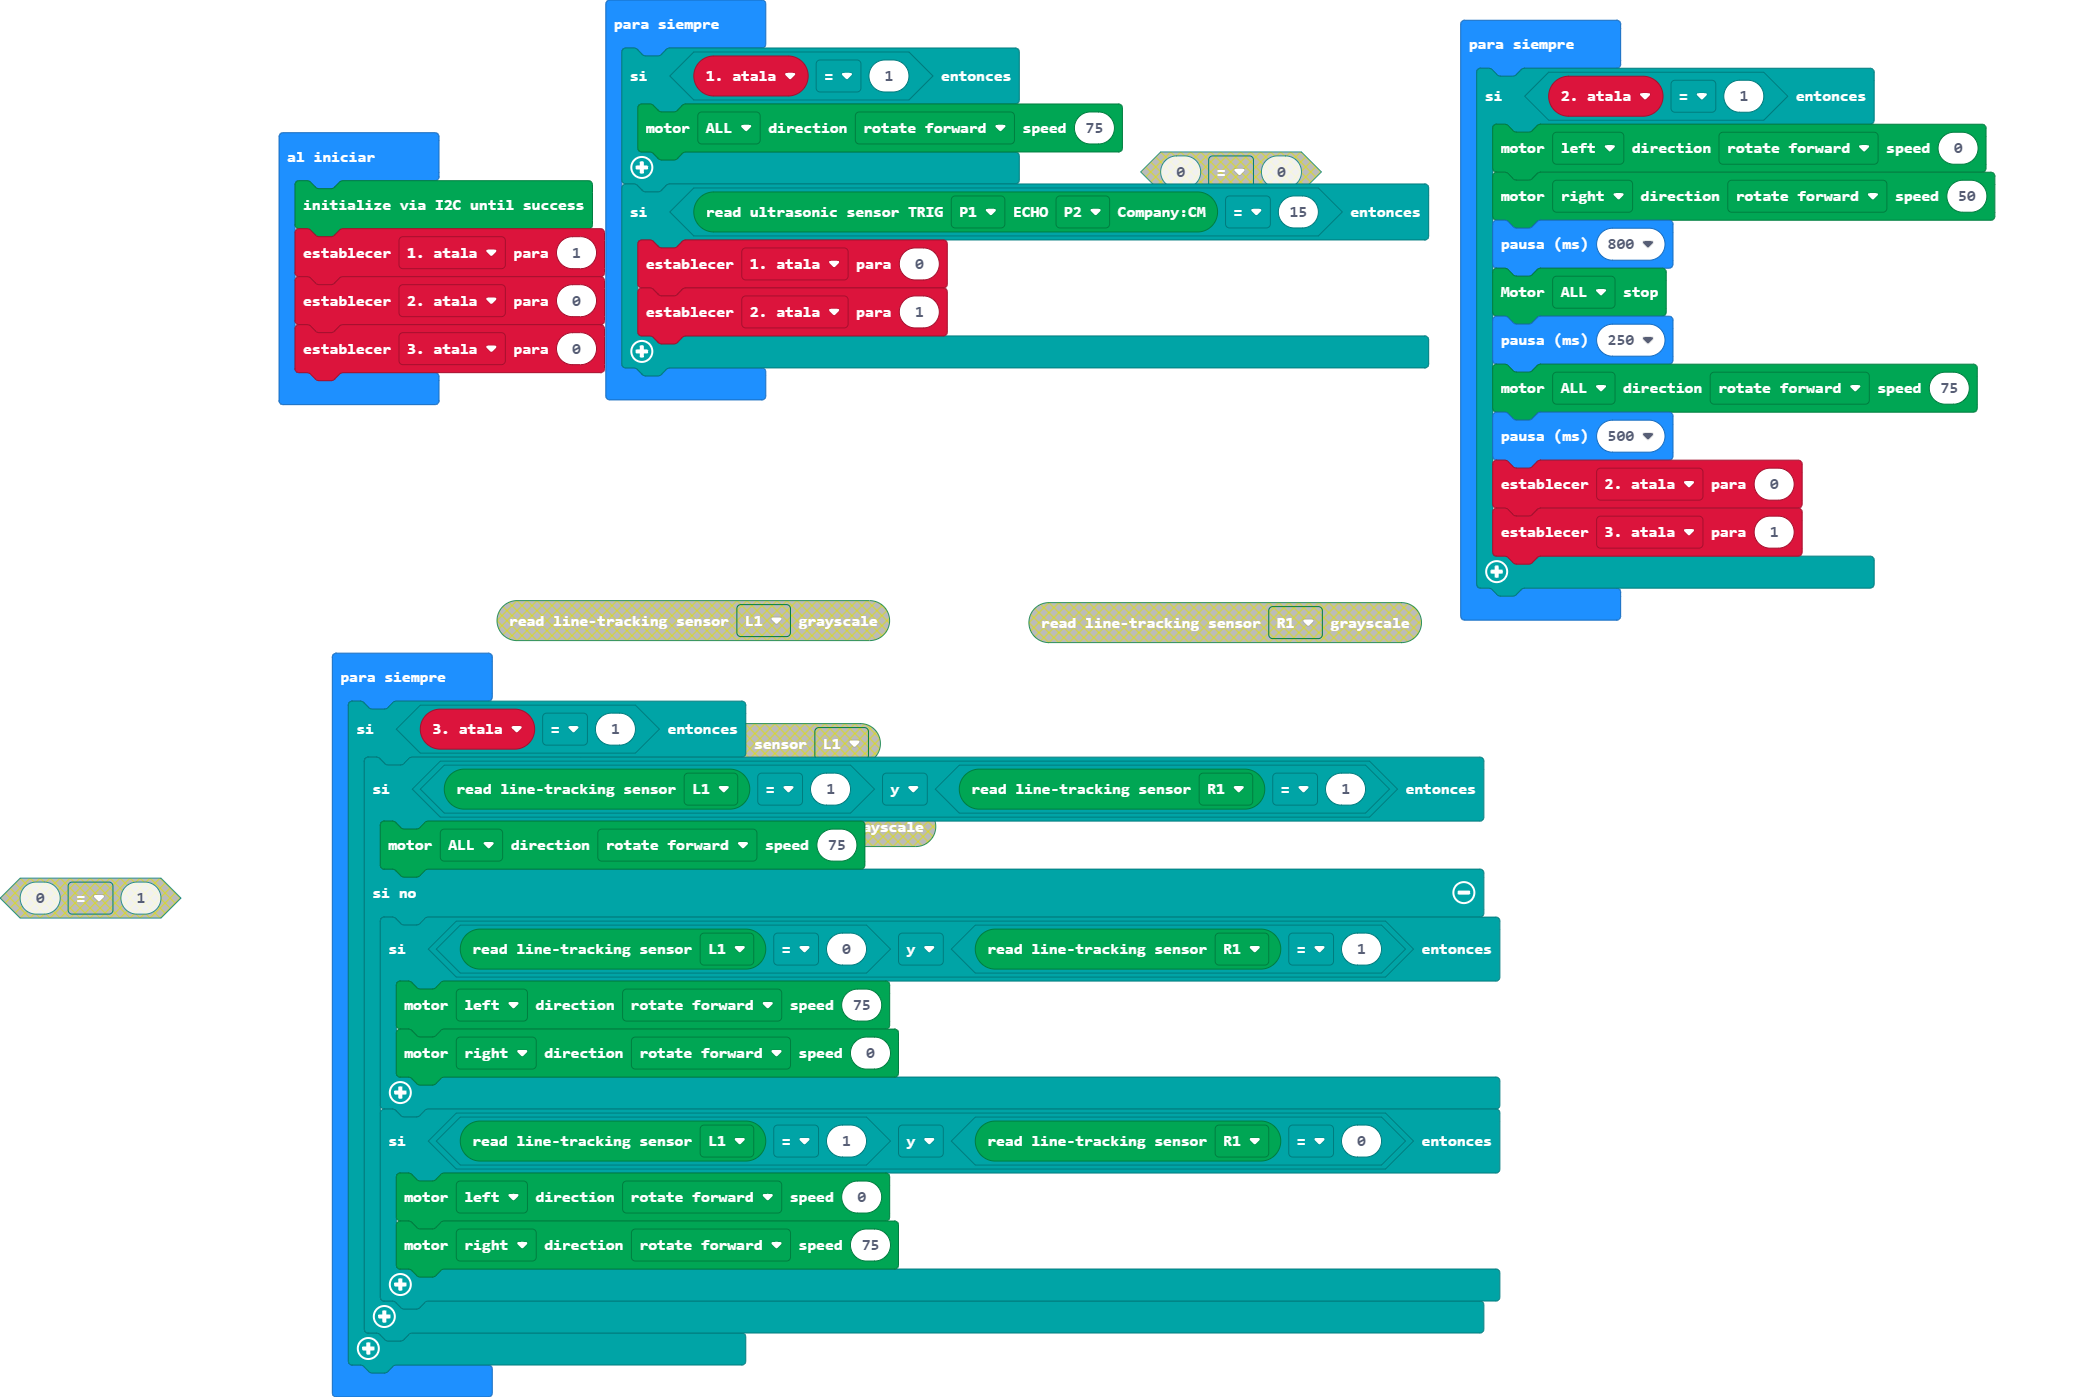
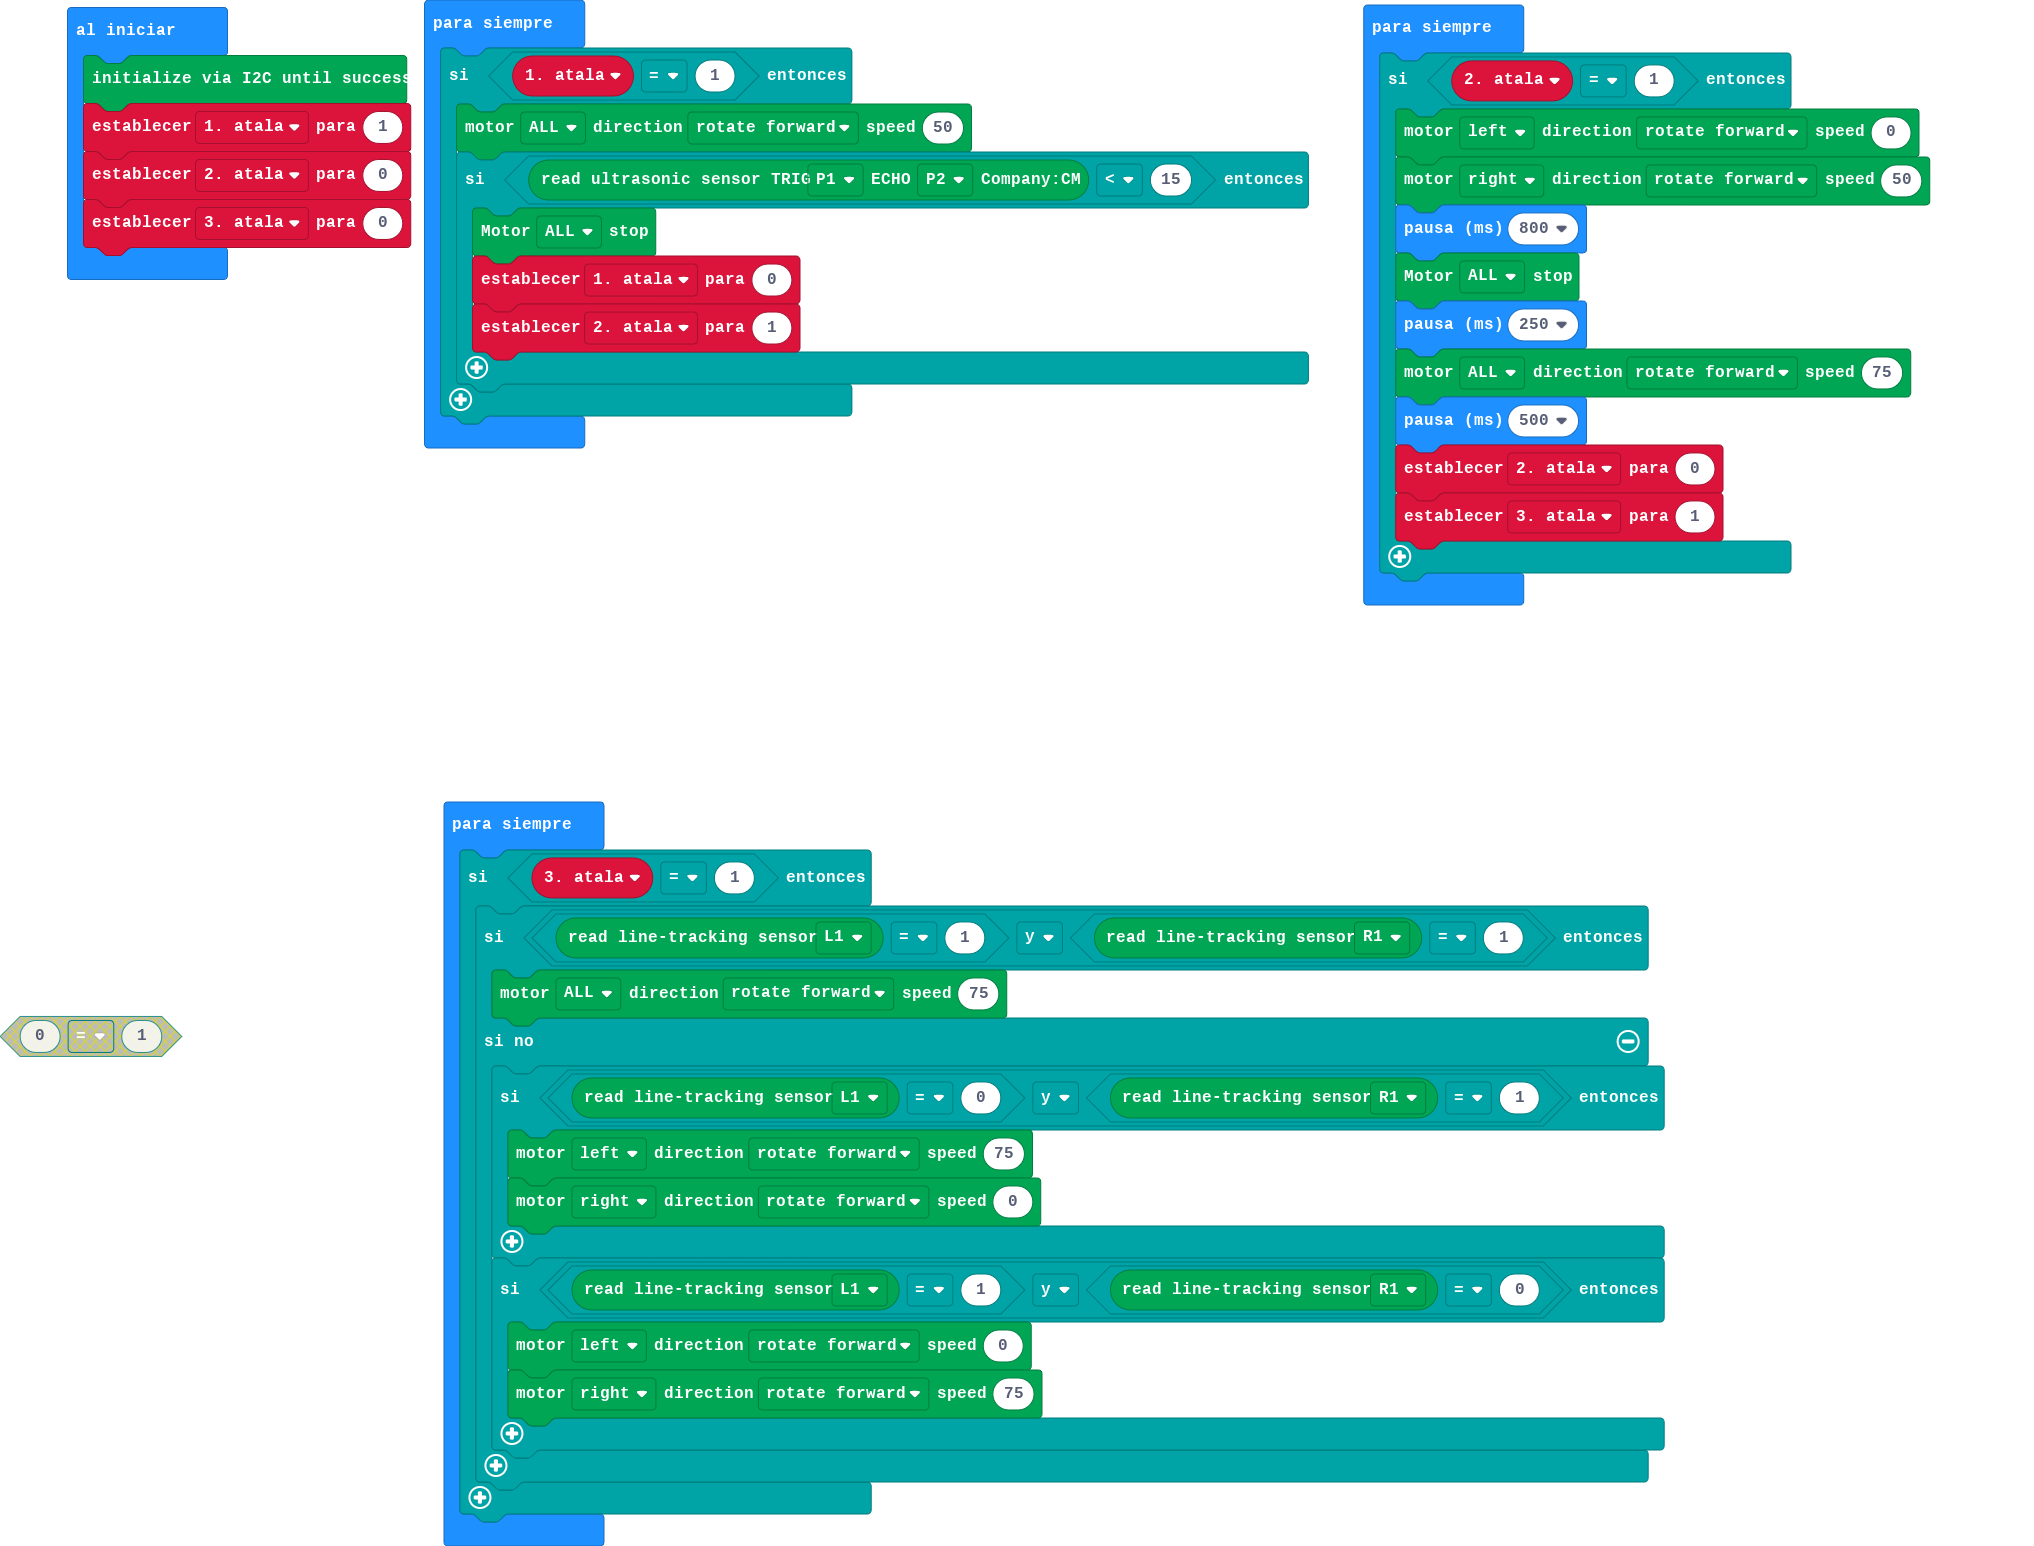
Actualizar main.blocks, main.ts

diff --git a/main.ts b/main.ts
@@ -4,11 +4,12 @@ let _2_atala = 0
 let _3_atala = 0
 basic.forever(function () {
     if (_1_atala == 1) {
-        DFRobotMaqueenPlus.mototRun(Motors.ALL, Dir.CW, 75)
-    }
-    if (DFRobotMaqueenPlus.ultraSonic(PIN.P1, PIN.P2) == 15) {
-        _1_atala = 0
-        _2_atala = 1
+        DFRobotMaqueenPlus.mototRun(Motors.ALL, Dir.CW, 50)
+        if (DFRobotMaqueenPlus.ultraSonic(PIN.P1, PIN.P2) < 15) {
+            DFRobotMaqueenPlus.mototStop(Motors.ALL)
+            _1_atala = 0
+            _2_atala = 1
+        }
     }
 })
 basic.forever(function () {
